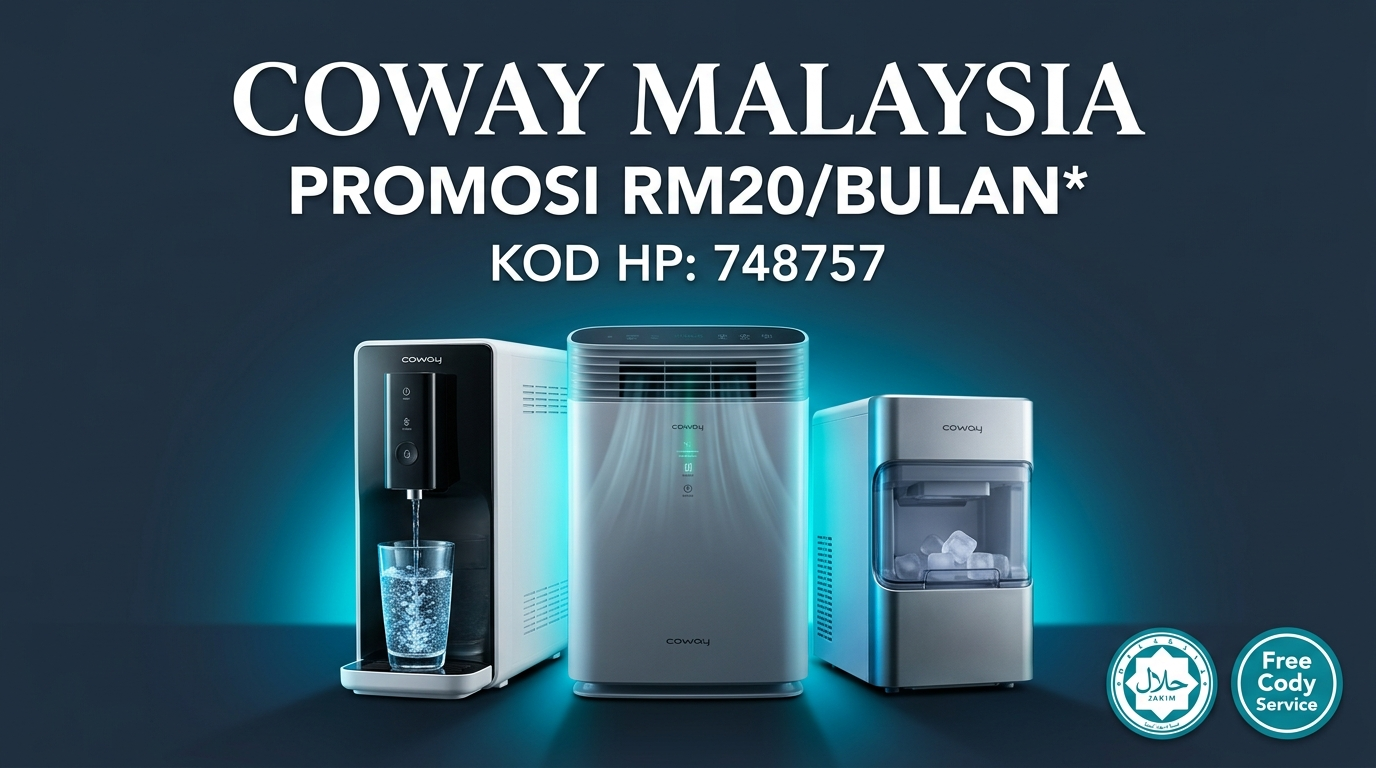
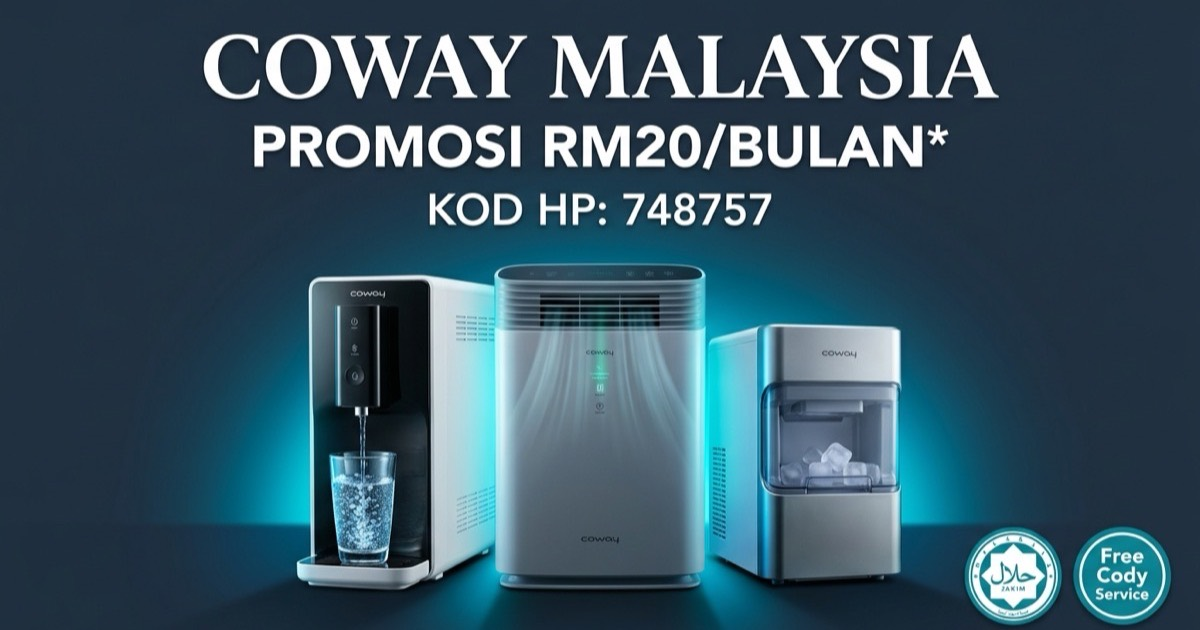
perf(assets): convert product art to webp and recompress photography
First load at a 390px viewport pulled 5.51 MB, 4.72 MB of it images. The 24
product and portrait PNGs become WebP (4.03 MB -> 0.32 MB), the lifestyle
JPEGs are re-encoded, and og-thumbnail.jpg is recropped to the 1200x630 the
metadata already declared. Three byte-identical copies of the OpenGraph
image are removed; src/app/opengraph-image.jpg also had to go because the
file convention emitted a second, conflicting og:image.

The 8-sebab infographic keeps its full 877px resolution as WebP since it
opens in a lightbox. First load is now 1.64 MB.

diff --git a/src/components/TrustBento.tsx b/src/components/TrustBento.tsx
@@ -2,177 +2,210 @@
 
 import React, { useState } from 'react';
 import { 
-  Award, 
+  BadgeCheck, 
   ShieldCheck, 
-  HeartHandshake, 
-  CheckCircle2, 
+  Clock, 
   Wrench, 
-  Truck, 
-  Gift, 
-  ZoomIn, 
+  Award, 
+  Sparkles, 
+  HeartHandshake, 
+  Flame,
+  Maximize2,
   X,
-  Droplets,
-  CalendarCheck,
-  Trophy,
-  FileCheck,
-  Layers
+  CheckCircle2
 } from 'lucide-react';
 
-const EIGHT_REASONS = [
+const REASONS = [
   {
-    num: '01',
-    title: 'Pensijilan Halal JAKIM',
-    desc: 'Penapis air Coway menerima pensijilan Halal rasmi oleh JAKIM bagi menjamin kebersihan, kesucian dan keselamatan air minuman keluarga anda.',
+    icon: BadgeCheck,
+    iconColor: 'text-emerald-400',
+    title: 'Sijil Halal JAKIM',
+    desc: 'Diiktiraf 100% Halal rasmi oleh JAKIM untuk semua penapis air dan komponen Coway di Malaysia.'
+  },
+  {
+    icon: Clock,
+    iconColor: 'text-sky-400',
+    title: 'Servis Cody Berkala',
+    desc: 'Sanitasi wap panas dan penukaran penapis berjadual setiap 2–4 bulan secara percuma.'
+  },
+  {
     icon: Award,
+    iconColor: 'text-amber-400',
+    title: 'Piawaian WQA & SIRIM',
+    desc: 'Pengiktirafan tertinggi WQA Gold Seal dan SIRIM untuk air paling bersih bertaraf dunia.'
   },
   {
-    num: '02',
-    title: 'Piawaian Kualiti WQA',
-    desc: 'Memenuhi standard pensijilan kualiti penapisan air antarabangsa Water Quality Association (WQA) untuk prestasi penapisan terbaik.',
-    icon: Droplets,
+    icon: Wrench,
+    iconColor: 'text-indigo-400',
+    title: 'Pasang & Waranti Percuma',
+    desc: 'Pendaftaran RM0, penghantaran percuma serta jaminan penuh alat ganti sepanjang kontrak.'
   },
   {
-    num: '03',
-    title: 'Jenama Dipercayai Pengguna',
-    desc: 'Pemenang Anugerah Reader\'s Digest Trusted Brand Platinum di Malaysia secara berturut-turut berdasarkan undian pengguna.',
-    icon: Trophy,
+    icon: ShieldCheck,
+    iconColor: 'text-cyan-400',
+    title: 'Pusat R&D Terbesar',
+    desc: 'Pusat penyelidikan kualiti air terbesar di dunia dengan lebih 370 pakar saintis.'
   },
   {
-    num: '04',
-    title: 'Pematuhan Piawaian SIRIM',
-    desc: 'Lulus piawaian ujian keselamatan komponen dan elektrik oleh SIRIM QAS International untuk ketenangan fikiran pengguna.',
-    icon: FileCheck,
+    icon: Sparkles,
+    iconColor: 'text-rose-400',
+    title: 'Pensterilan Dwi-UV',
+    desc: 'Teknologi sinar UV automatik memastikan nozel dan tangki bebas kuman setiap masa.'
   },
   {
-    num: '05',
-    title: 'Pelan Fleksibel Jadi Hak Milik',
-    desc: 'Pilihan tempoh sewa beli berpatutan mengikut bajet anda. Produk terus menjadi hak milik sepenuhnya selepas tempoh kontrak tamat.',
-    icon: CalendarCheck,
+    icon: Flame,
+    iconColor: 'text-orange-400',
+    title: 'Promo Dari RM20/Bulan',
+    desc: 'Pelan ansuran sewa beli mesra bajet dengan kadar pengenalan serendah RM20.'
   },
   {
-    num: '06',
-    title: 'Pelbagai Pilihan Model',
-    desc: 'Pilihan model kompak, bertangki, tanpa tangki (tankless) mahupun kapasiti besar untuk kediaman serta pejabat.',
-    icon: Layers,
-  },
-  {
-    num: '07',
-    title: 'Servis Berjadual Cody',
-    desc: 'Servis sanitasi dan penukaran penapis berkala oleh juruteknik terlatih (Cody) bagi menjamin air sentiasa segar dan bersih.',
     icon: HeartHandshake,
-  },
-  {
-    num: '08',
-    title: 'Reka Bentuk & Inovasi',
-    desc: 'Pemenang anugerah reka bentuk antarabangsa seperti iF Design, Red Dot & Good Design Award untuk reka bentuk moden dan mesra pengguna.',
-    icon: Award,
+    iconColor: 'text-pink-400',
+    title: 'Khidmat Johan (HP 748757)',
+    desc: 'Konsultasi telus dan urusan pendaftaran pantas terus bersama Health Planner sah anda.'
   }
 ];
 
 export const TrustBento: React.FC = () => {
-  const [isPosterOpen, setIsPosterOpen] = useState(false);
+  const [isInfographicZoomed, setIsInfographicZoomed] = useState<boolean>(false);
 
   return (
-    <section id="kenapa" className="py-16 sm:py-20 bg-slate-950 border-t border-slate-850">
-      <div className="max-w-7xl mx-auto px-4 sm:px-6 lg:px-8">
+    <section id="kenapa" className="py-8 sm:py-16 bg-[#0D1322] border-t border-slate-850">
+      <div className="max-w-7xl mx-auto px-3 sm:px-6 lg:px-8">
         
         {/* Section Header */}
-        <div className="text-center max-w-3xl mx-auto mb-12 sm:mb-14">
-          <span className="text-sky-400 text-xs font-bold tracking-widest uppercase mb-1.5 block">
-            Jaminan Kualiti & Kepercayaan
-          </span>
-          <h2 className="text-3xl sm:text-5xl font-extrabold text-white tracking-tight">
-            8 Sebab Kenapa Anda Perlu Pilih <span className="text-sky-400">Coway</span>
+        <div className="text-center max-w-3xl mx-auto mb-6 sm:mb-10">
+          <div className="inline-flex items-center gap-1.5 px-3 py-1 rounded-full bg-sky-950 text-sky-300 border border-sky-800 text-[10px] sm:text-xs font-bold uppercase tracking-wider mb-1.5">
+            <ShieldCheck className="w-3.5 h-3.5 text-sky-400" />
+            <span>Kualiti & Kepercayaan</span>
+          </div>
+          <h2 className="text-2xl sm:text-4xl font-black text-white tracking-tight">
+            8 Sebab Memilih Coway Malaysia
           </h2>
-          <p className="mt-3 text-slate-400 text-sm sm:text-base leading-relaxed">
-            Ketahui kelebihan sistem penapisan air, penulen udara dan servis berjadual rasmi Coway Malaysia yang dipercayai jutaan keluarga.
+          <p className="mt-1 text-slate-300 text-xs sm:text-sm leading-relaxed">
+            Jenama penapis air & udara No.1 paling dipercayai dengan servis berjadual terbaik.
           </p>
         </div>
 
-        {/* Infographic Banner & Highlights */}
-        <div className="grid grid-cols-1 lg:grid-cols-12 gap-8 items-center mb-12">
-          
-          {/* Infographic Poster Card (Clickable to zoom) */}
-          <div className="lg:col-span-5 flex justify-center">
-            <div 
-              onClick={() => setIsPosterOpen(true)}
-              className="pro-card p-3 sm:p-4 bg-slate-900 border border-slate-800 rounded-2xl cursor-pointer group relative overflow-hidden max-w-md w-full shadow-2xl hover:border-sky-500/60 transition-all"
-              title="Klik untuk lihat poster infografik resolusi tinggi"
-            >
-              <div className="relative rounded-xl overflow-hidden bg-slate-950 flex items-center justify-center">
+        {/* Highlight Banner: 8 Sebab Infographic + Overview Feature */}
+        <div className="mb-6 pro-card p-4 sm:p-6 rounded-2xl sm:rounded-3xl bg-[#111726] border border-slate-800 shadow-xl">
+          <div className="grid grid-cols-1 lg:grid-cols-12 gap-6 items-center">
+            
+            {/* Left: Official 8 Sebab Image Showcase */}
+            <div className="lg:col-span-5 flex justify-center">
+              <div 
+                onClick={() => setIsInfographicZoomed(true)}
+                className="relative rounded-xl overflow-hidden bg-slate-950 p-1.5 border border-slate-800 shadow-lg cursor-pointer group max-w-xs w-full"
+              >
                 <img 
-                  src="/images/8-sebab-pilih-coway.png" 
-                  alt="8 Sebab Kenapa Anda Perlu Pilih Coway" 
-                  className="w-full object-contain group-hover:scale-105 transition-transform duration-300 rounded-xl"
+                  src="/images/8-sebab-pilih-coway.webp" 
+                  alt="8 Sebab Utama Memilih Coway Malaysia" 
+                  className="w-full h-auto object-contain rounded-lg transition-transform duration-300 group-hover:scale-103"
                 />
-                
-                {/* Zoom Overlay Banner */}
-                <div className="absolute inset-0 bg-black/40 opacity-0 group-hover:opacity-100 flex flex-col items-center justify-center transition-opacity text-center p-4">
-                  <div className="p-3 rounded-full bg-sky-600 text-white mb-2 shadow-lg scale-90 group-hover:scale-100 transition-transform">
-                    <ZoomIn className="w-6 h-6" />
+                <div className="absolute inset-0 bg-slate-950/40 opacity-0 group-hover:opacity-100 transition-opacity flex items-center justify-center rounded-lg">
+                  <div className="px-3 py-1.5 rounded-lg bg-sky-600 text-white text-[11px] font-bold flex items-center gap-1 shadow-md">
+                    <Maximize2 className="w-3.5 h-3.5" />
+                    <span>Tekan Untuk Zoom</span>
                   </div>
-                  <span className="text-xs font-bold text-white bg-slate-900/90 px-3 py-1 rounded-full border border-slate-700">
-                    Klik Untuk Paparan Penuh (Zoom)
-                  </span>
                 </div>
-              </div>
-
-              <div className="pt-3 pb-1 px-1 flex items-center justify-between text-xs">
-                <span className="text-slate-300 font-bold flex items-center gap-1.5">
-                  <CheckCircle2 className="w-4 h-4 text-emerald-400" />
-                  Infografik Rasmi Coway
-                </span>
-                <span className="text-sky-400 font-bold hover:underline flex items-center gap-1">
-                  <ZoomIn className="w-3.5 h-3.5" /> Besarkan
-                </span>
               </div>
             </div>
-          </div>
 
-          {/* 8-Points Modern Grid */}
-          <div className="lg:col-span-7 grid grid-cols-1 sm:grid-cols-2 gap-3.5">
-            {EIGHT_REASONS.map((item, idx) => (
-              <div 
-                key={idx} 
-                className="pro-card p-4 sm:p-5 bg-slate-900/90 border border-slate-800 rounded-2xl flex items-start gap-3.5 hover:border-slate-700 transition-all"
-              >
-                <div className="w-9 h-9 rounded-xl bg-sky-950/70 border border-sky-800 text-sky-400 font-black text-xs flex items-center justify-center shrink-0">
-                  {item.num}
+            {/* Right: Explanatory Context & Key Guarantees */}
+            <div className="lg:col-span-7 space-y-2.5 text-center lg:text-left">
+              <div className="inline-flex items-center gap-1 px-2.5 py-0.5 rounded-full bg-sky-950 text-sky-300 text-[10px] font-bold border border-sky-800">
+                <Sparkles className="w-3 h-3 text-amber-400" />
+                <span>Piawaian Mutlak Kesihatan Rumah</span>
+              </div>
+
+              <h3 className="text-lg sm:text-2xl font-black text-white leading-tight">
+                Jaminan Kualiti Air & Udara Tanpa Kompromi
+              </h3>
+
+              <p className="text-xs text-slate-300 leading-relaxed font-normal">
+                Diuji lebih 1 juta kali di Pusat R&D terbesar di dunia sebelum dipasang di rumah anda. Dilengkapi pensijilan Halal JAKIM rasmi, standard WQA antarabangsa, serta khidmat Cody sanitasi berjadual.
+              </p>
+
+              <div className="grid grid-cols-2 gap-2 pt-1 text-[11px] text-slate-300">
+                <div className="flex items-center gap-1.5">
+                  <CheckCircle2 className="w-3.5 h-3.5 text-emerald-400 shrink-0" />
+                  <span>100% Halal JAKIM</span>
                 </div>
-                <div className="space-y-1 min-w-0">
-                  <h3 className="text-sm font-bold text-white leading-snug">{item.title}</h3>
-                  <p className="text-xs text-slate-400 leading-relaxed">{item.desc}</p>
+                <div className="flex items-center gap-1.5">
+                  <CheckCircle2 className="w-3.5 h-3.5 text-emerald-400 shrink-0" />
+                  <span>Pusat R&D Terbesar</span>
+                </div>
+                <div className="flex items-center gap-1.5">
+                  <CheckCircle2 className="w-3.5 h-3.5 text-emerald-400 shrink-0" />
+                  <span>Servis Cody Berkala</span>
+                </div>
+                <div className="flex items-center gap-1.5">
+                  <CheckCircle2 className="w-3.5 h-3.5 text-emerald-400 shrink-0" />
+                  <span>Waranti Penuh Percuma</span>
                 </div>
               </div>
-            ))}
-          </div>
+            </div>
 
+          </div>
+        </div>
+
+        {/* 8-Card Bento Grid (2 cols on mobile) */}
+        <div className="grid grid-cols-2 md:grid-cols-4 gap-2.5 sm:gap-4">
+          {REASONS.map((item, idx) => {
+            const IconComponent = item.icon;
+            return (
+              <div 
+                key={idx}
+                className="pro-card p-3 sm:p-5 rounded-2xl bg-[#111726] border border-slate-800 hover:border-slate-700 transition-all flex flex-col justify-between space-y-1.5 shadow-md"
+              >
+                <div>
+                  <div className="w-8 h-8 sm:w-9 sm:h-9 rounded-xl bg-[#0A0F1D] border border-slate-800 flex items-center justify-center mb-2">
+                    <IconComponent className={`w-4 h-4 ${item.iconColor}`} />
+                  </div>
+
+                  <h3 className="text-xs sm:text-sm font-black text-white leading-snug">
+                    {item.title}
+                  </h3>
+                  
+                  <p className="text-[10px] sm:text-xs text-slate-300 mt-1 leading-relaxed">
+                    {item.desc}
+                  </p>
+                </div>
+
+                <div className="pt-1.5 border-t border-slate-800/80 text-[8px] sm:text-[9px] text-slate-500 font-bold uppercase tracking-wider">
+                  Sebab {idx + 1}/8
+                </div>
+              </div>
+            );
+          })}
         </div>
 
       </div>
 
-      {/* Poster Zoom Modal */}
-      {isPosterOpen && (
+      {/* 8 Sebab Fullscreen Zoom Modal */}
+      {isInfographicZoomed && (
         <div 
-          onClick={() => setIsPosterOpen(false)}
-          className="fixed inset-0 z-50 bg-black/90 backdrop-blur-md flex items-center justify-center p-3 sm:p-6 cursor-pointer"
+          className="fixed inset-0 z-50 bg-black/90 backdrop-blur-md flex items-center justify-center p-4 animate-in fade-in duration-200"
+          onClick={() => setIsInfographicZoomed(false)}
         >
-          <div className="relative max-w-4xl w-full max-h-[90vh] flex flex-col items-center">
+          <div className="relative max-w-lg w-full flex flex-col items-center">
             <button
-              onClick={() => setIsPosterOpen(false)}
-              className="absolute -top-12 right-0 text-white bg-slate-800 hover:bg-slate-700 p-2 rounded-full border border-slate-600 transition-colors"
+              type="button"
+              onClick={() => setIsInfographicZoomed(false)}
+              className="absolute -top-10 right-0 p-1.5 rounded-full bg-slate-800 text-white hover:bg-slate-700 transition-colors"
+              aria-label="Tutup"
             >
-              <X className="w-6 h-6" />
+              <X className="w-5 h-5" />
             </button>
             <img 
-              src="/images/8-sebab-pilih-coway.png" 
-              alt="8 Sebab Kenapa Anda Perlu Pilih Coway (Paparan Penuh)" 
-              className="max-h-[85vh] max-w-full object-contain rounded-2xl border border-slate-800 shadow-2xl"
-              onClick={(e) => e.stopPropagation()}
+              src="/images/8-sebab-pilih-coway.webp" 
+              alt="8 Sebab Utama Memilih Coway Malaysia - Paparan Penuh" 
+              className="max-h-[80vh] w-auto object-contain rounded-2xl border border-slate-800 shadow-2xl"
             />
           </div>
         </div>
       )}
+
     </section>
   );
 };
